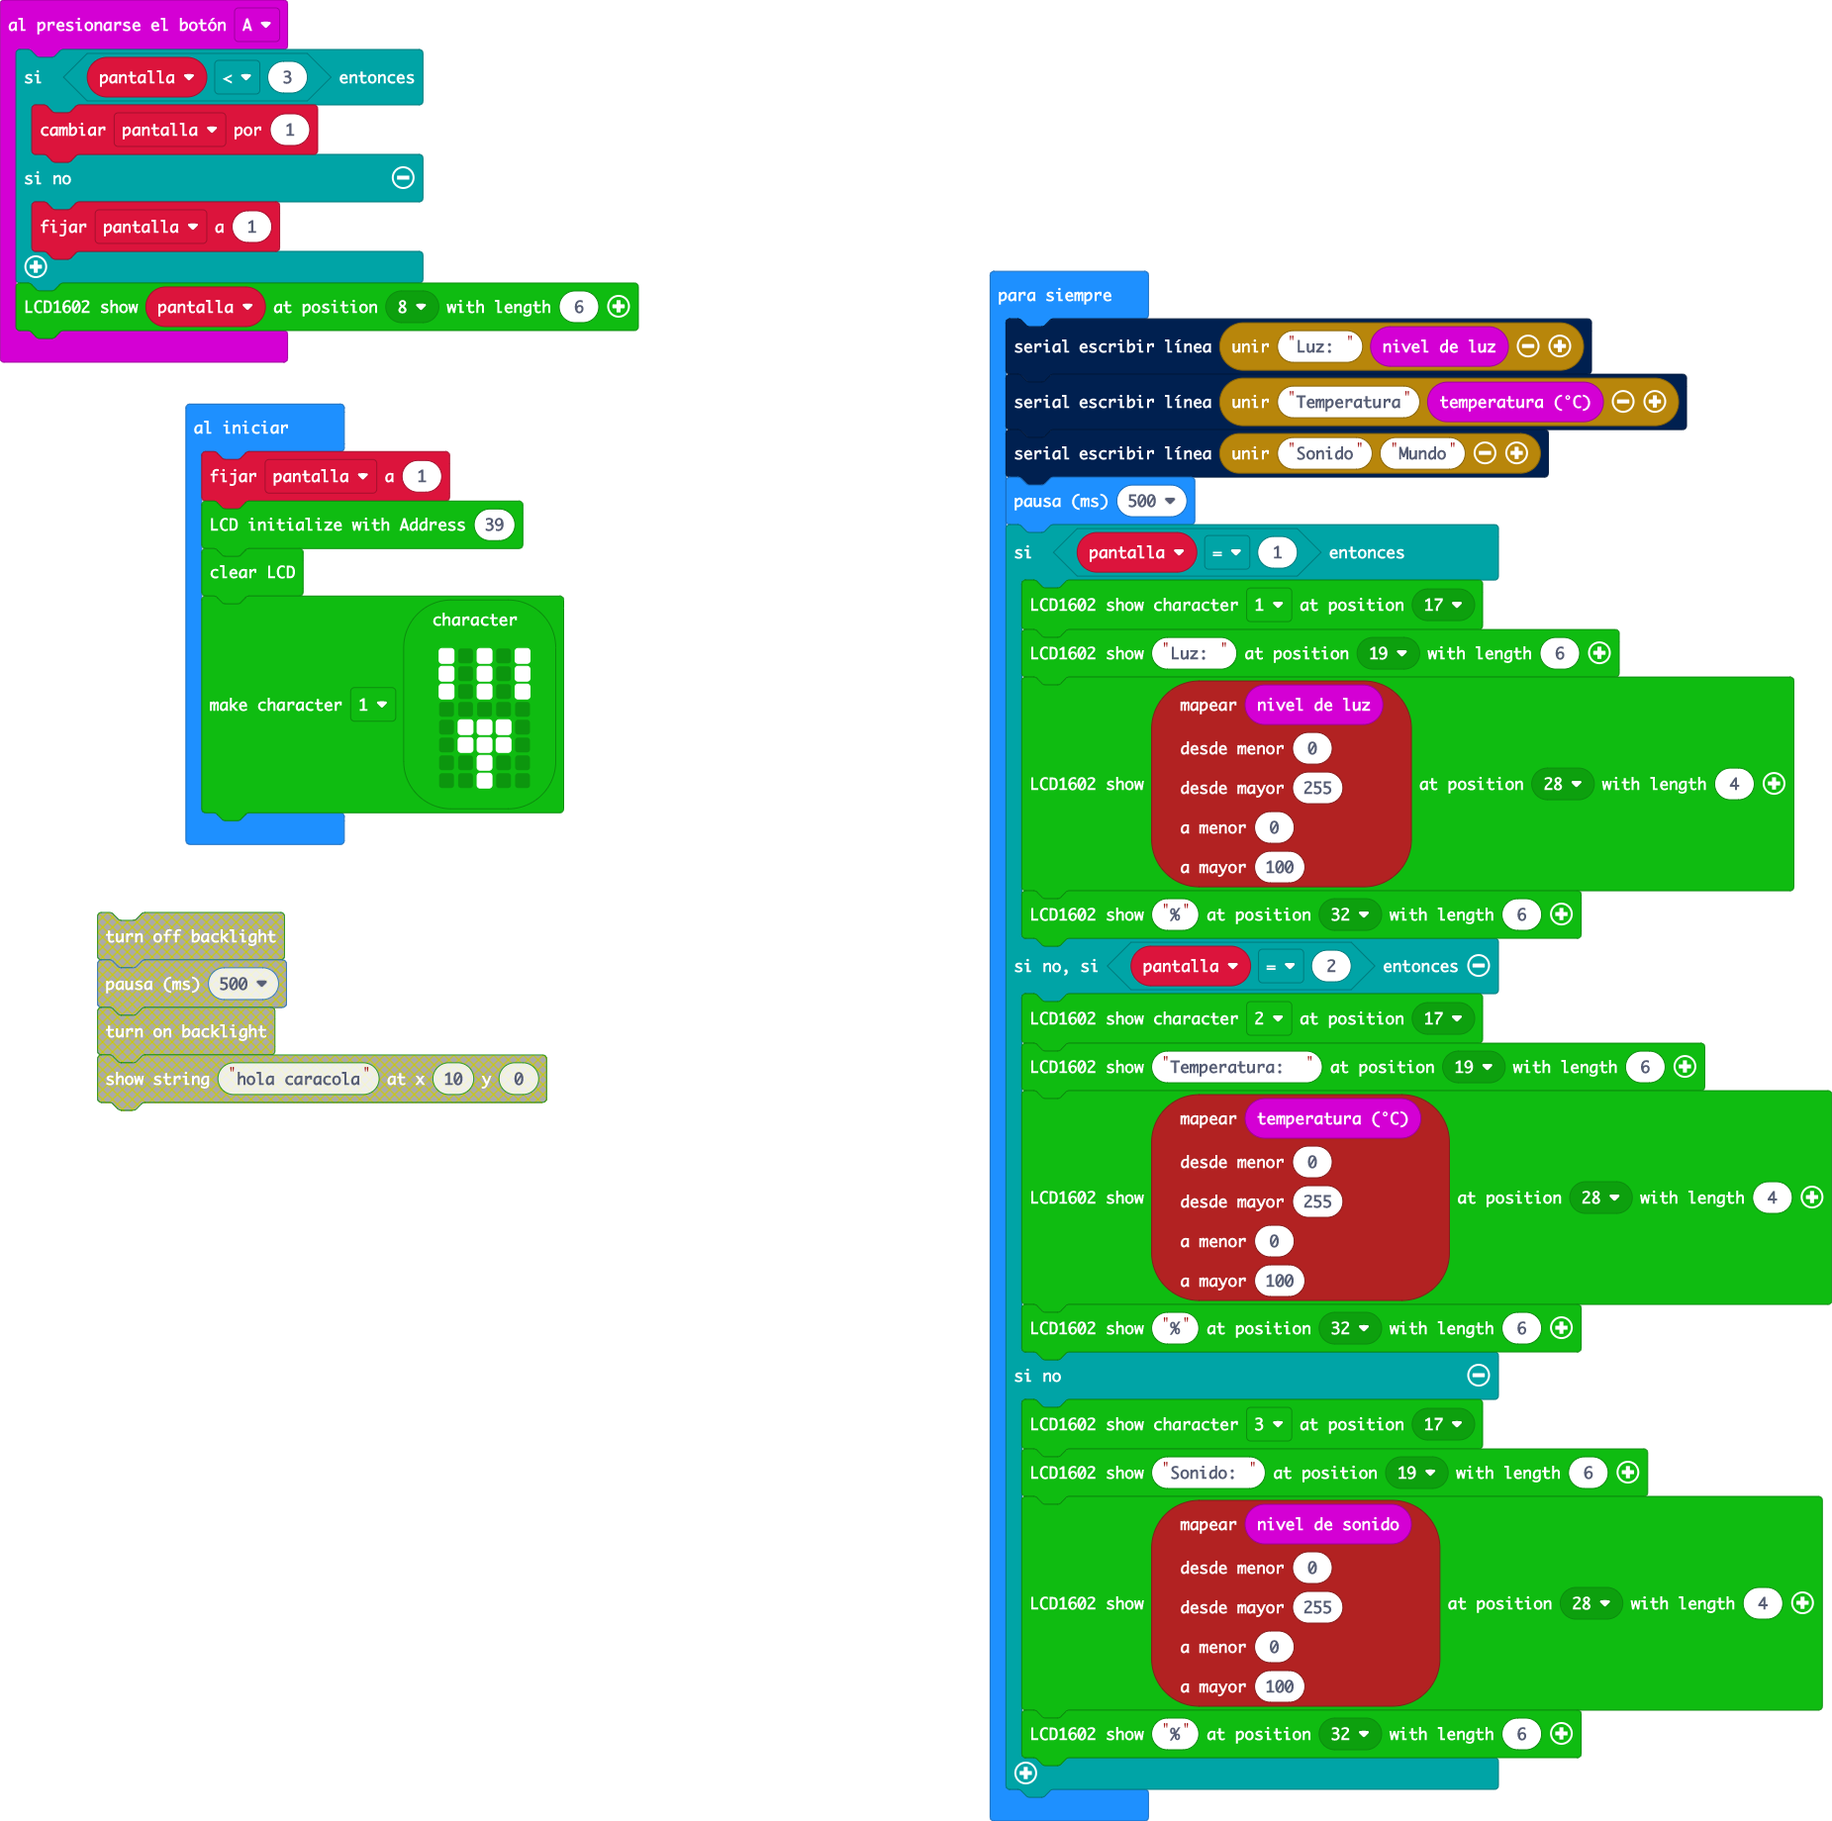
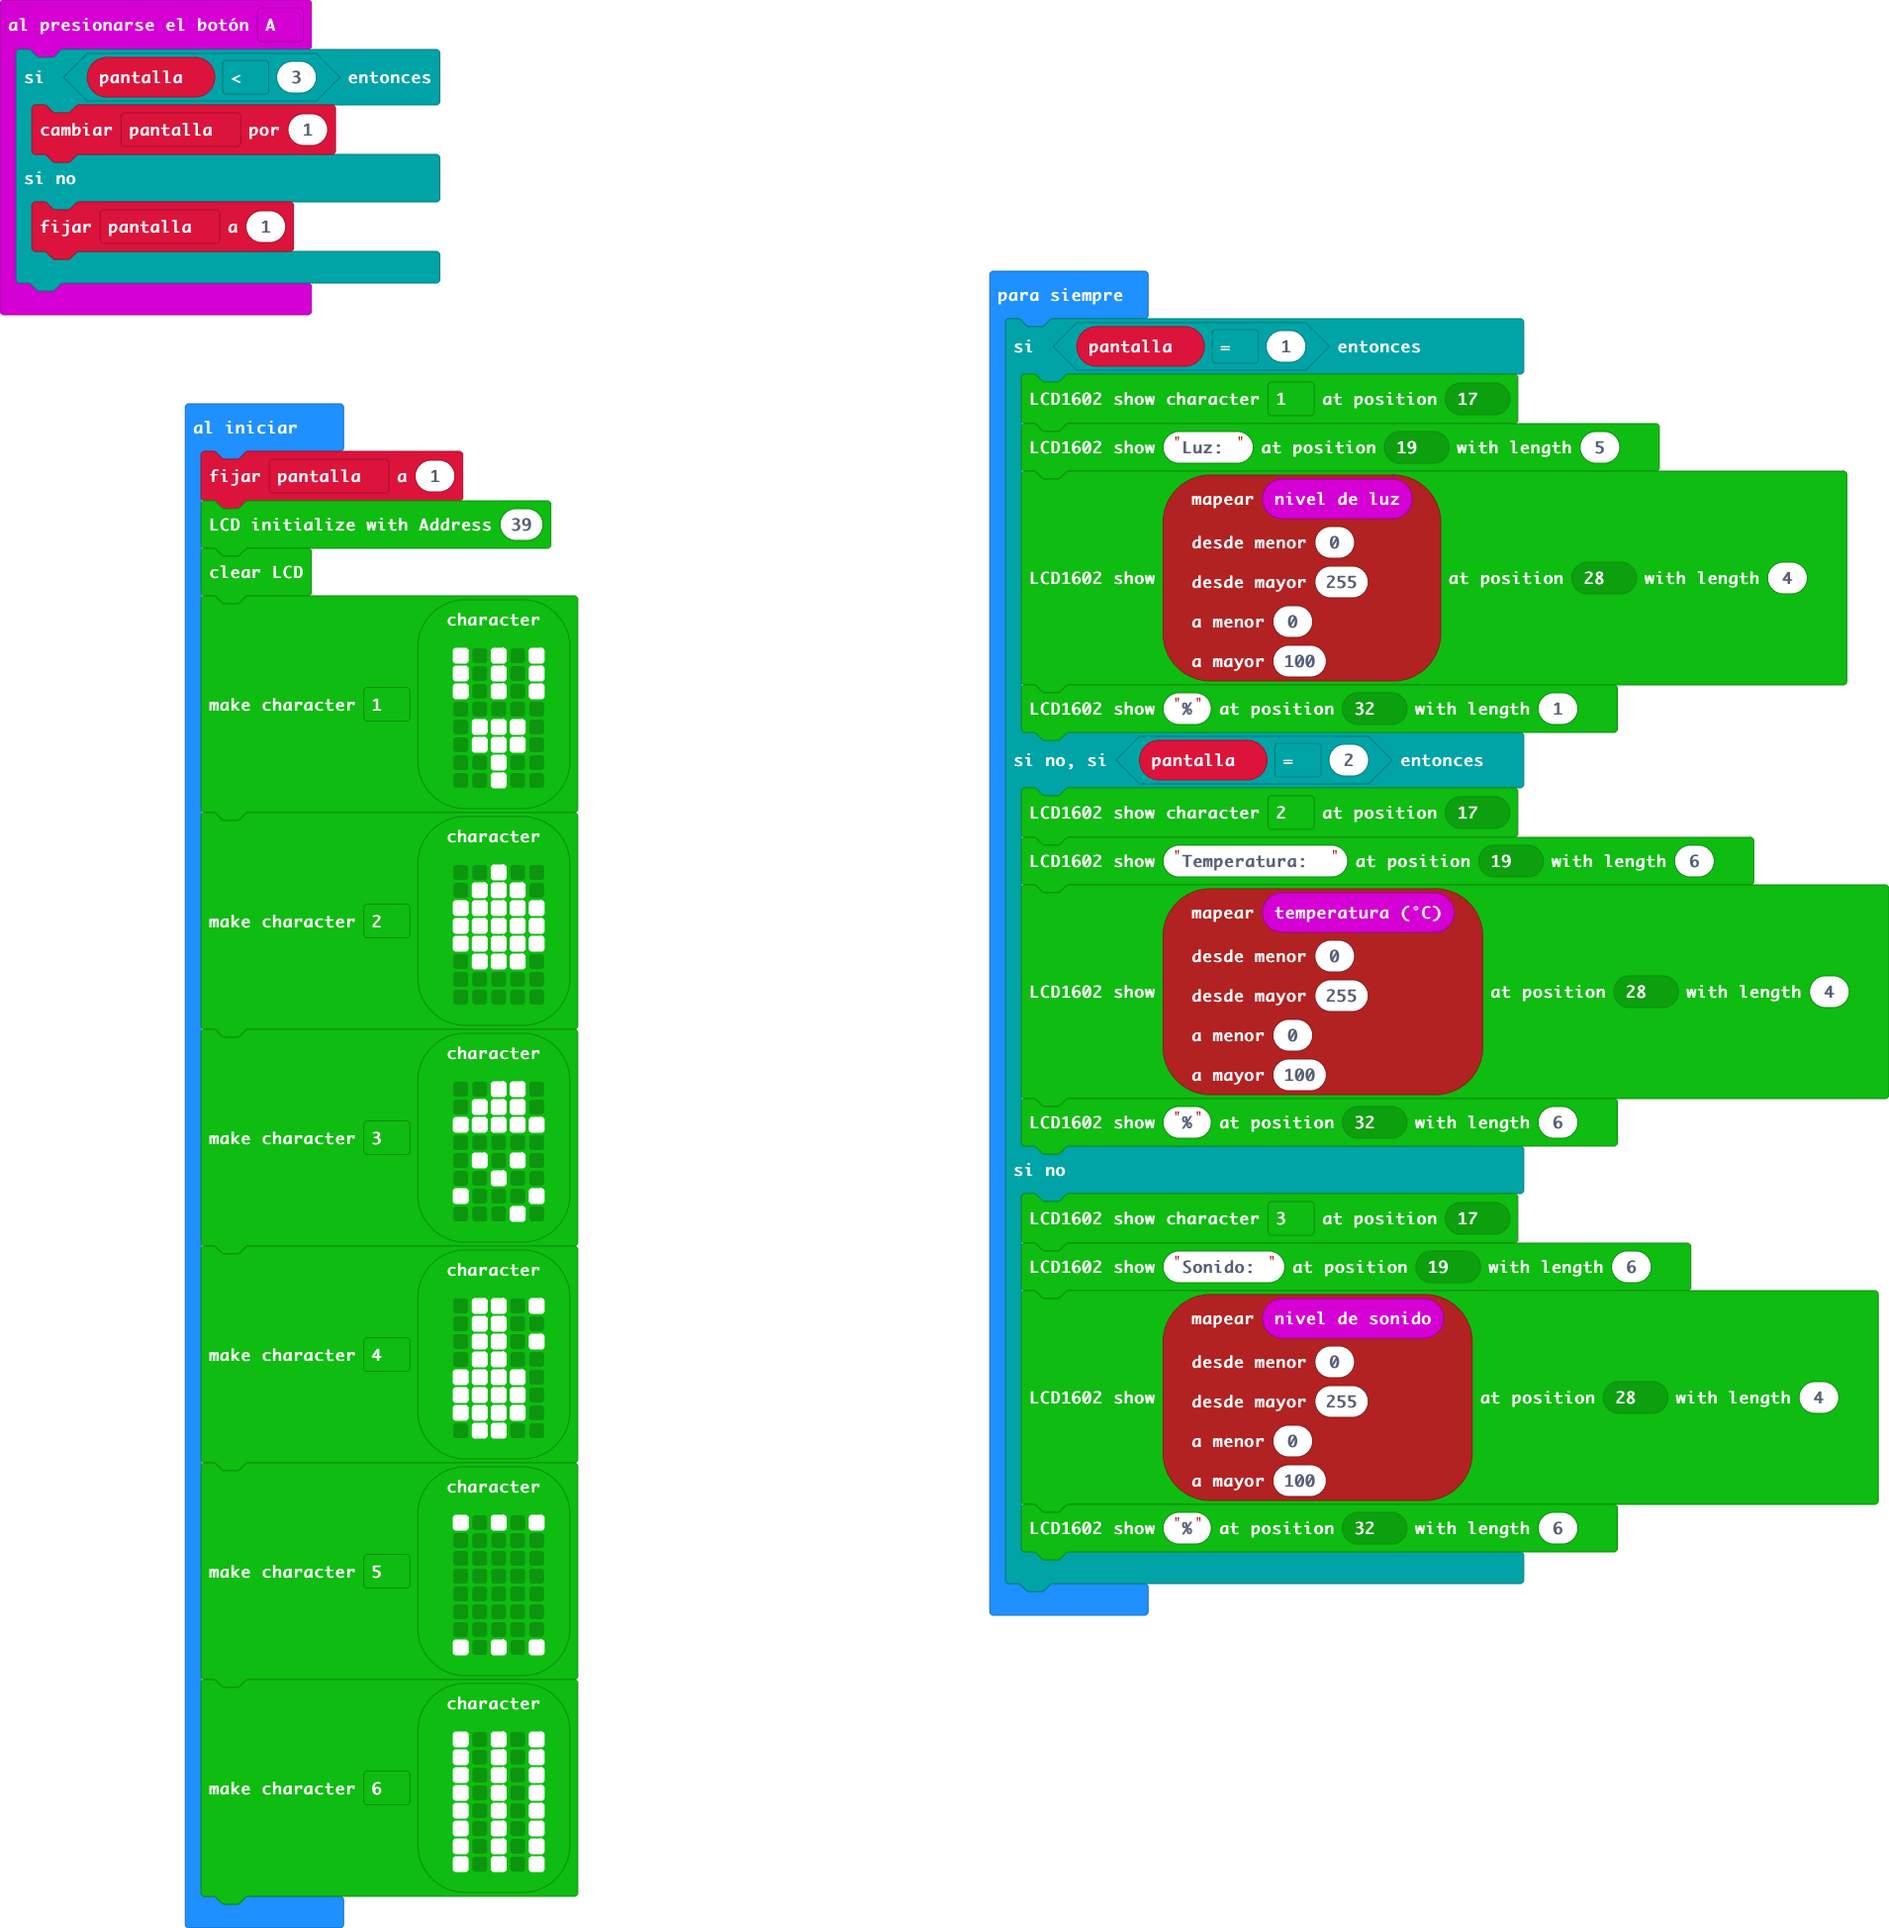
Actualizar main.blocks, main.ts

diff --git a/main.ts b/main.ts
@@ -4,7 +4,6 @@ input.onButtonPressed(Button.A, function () {
     } else {
         pantalla = 1
     }
-    makerbit.showStringOnLcd1602("" + (pantalla), makerbit.position1602(LcdPosition1602.Pos8), 6)
 })
 let pantalla = 0
 pantalla = 1
@@ -20,14 +19,60 @@ makerbit.lcdMakeCharacter(LcdChar.c1, makerbit.lcdCharacterPixels(`
     . . # . .
     . . # . .
     `))
+makerbit.lcdMakeCharacter(LcdChar.c2, makerbit.lcdCharacterPixels(`
+    . . # . .
+    . # # # .
+    # # # # #
+    # # # # #
+    # # # # #
+    . # # # .
+    . . . . .
+    . . . . .
+    `))
+makerbit.lcdMakeCharacter(LcdChar.c3, makerbit.lcdCharacterPixels(`
+    . . # # .
+    . # # # .
+    # # # # #
+    . . . . .
+    . # . # .
+    . . # . .
+    # . . . #
+    . . . # .
+    `))
+makerbit.lcdMakeCharacter(LcdChar.c4, makerbit.lcdCharacterPixels(`
+    . # # . #
+    . # # . .
+    . # # . #
+    . # # . .
+    # # # # .
+    # # # # .
+    # # # # .
+    . # # . .
+    `))
+makerbit.lcdMakeCharacter(LcdChar.c5, makerbit.lcdCharacterPixels(`
+    # . # . #
+    . . . . .
+    . . . . .
+    . . . . .
+    . . . . .
+    . . . . .
+    . . . . .
+    # . # . #
+    `))
+makerbit.lcdMakeCharacter(LcdChar.c6, makerbit.lcdCharacterPixels(`
+    # . # . #
+    # . # . #
+    # . # . #
+    # . # . #
+    # . # . #
+    # . # . #
+    # . # . #
+    # . # . #
+    `))
 basic.forever(function () {
-    serial.writeLine("Luz: " + input.lightLevel())
-    serial.writeLine("Temperatura" + input.temperature())
-    serial.writeLine("Sonido" + "Mundo")
-    basic.pause(500)
     if (pantalla == 1) {
         makerbit.lcdShowCharacter1602(LcdChar.c1, makerbit.position1602(LcdPosition1602.Pos17))
-        makerbit.showStringOnLcd1602("Luz: ", makerbit.position1602(LcdPosition1602.Pos19), 6)
+        makerbit.showStringOnLcd1602("Luz: ", makerbit.position1602(LcdPosition1602.Pos19), 5)
         makerbit.showStringOnLcd1602("" + (pins.map(
         input.lightLevel(),
         0,
@@ -35,7 +80,7 @@ basic.forever(function () {
         0,
         100
         )), makerbit.position1602(LcdPosition1602.Pos28), 4)
-        makerbit.showStringOnLcd1602("%", makerbit.position1602(LcdPosition1602.Pos32), 6)
+        makerbit.showStringOnLcd1602("%", makerbit.position1602(LcdPosition1602.Pos32), 1)
     } else if (pantalla == 2) {
         makerbit.lcdShowCharacter1602(LcdChar.c2, makerbit.position1602(LcdPosition1602.Pos17))
         makerbit.showStringOnLcd1602("Temperatura:  ", makerbit.position1602(LcdPosition1602.Pos19), 6)
